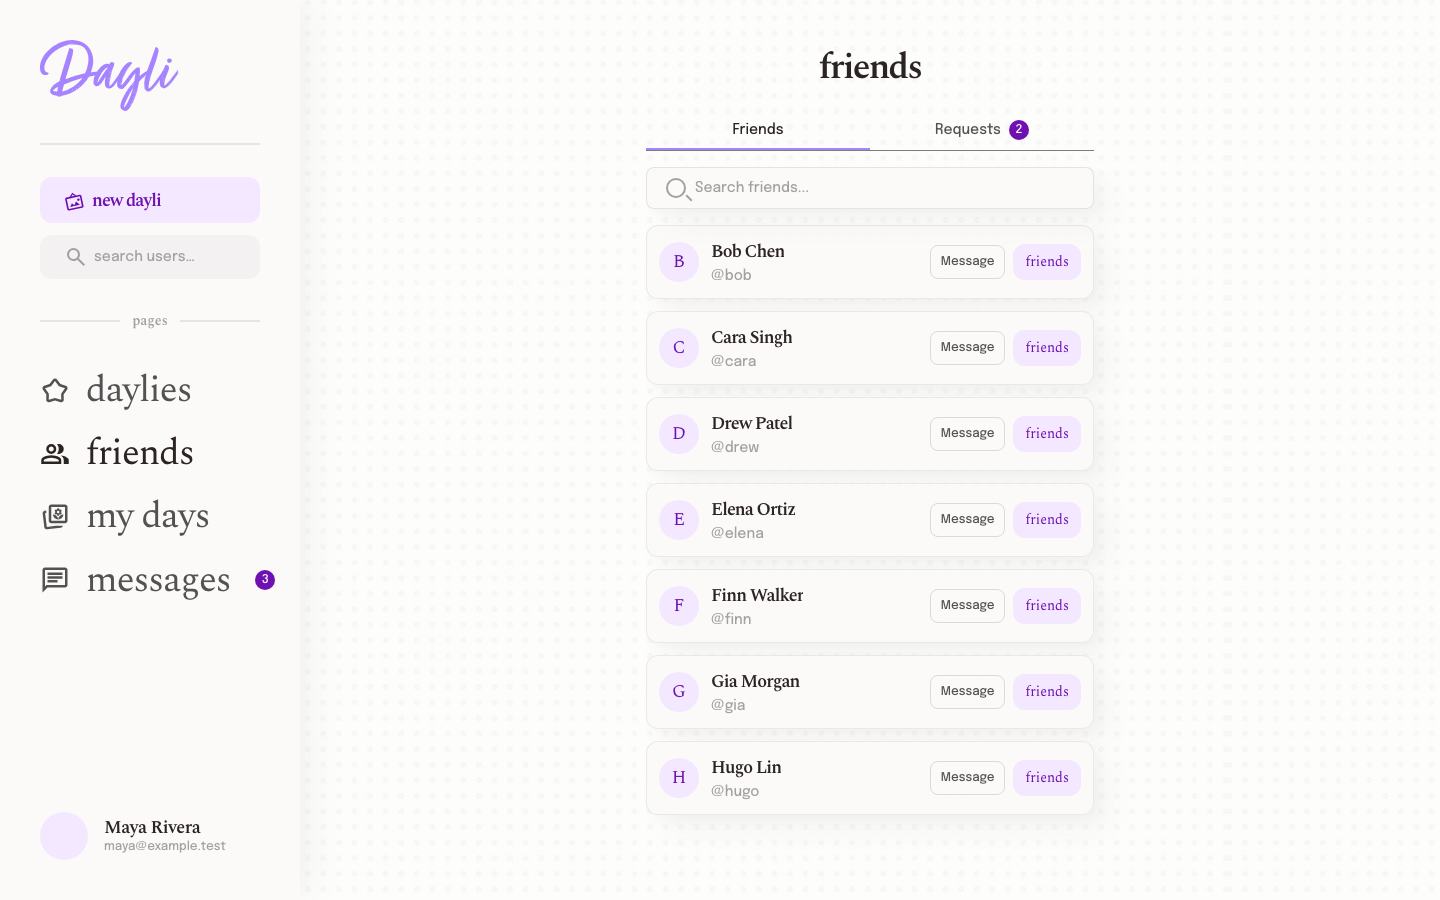
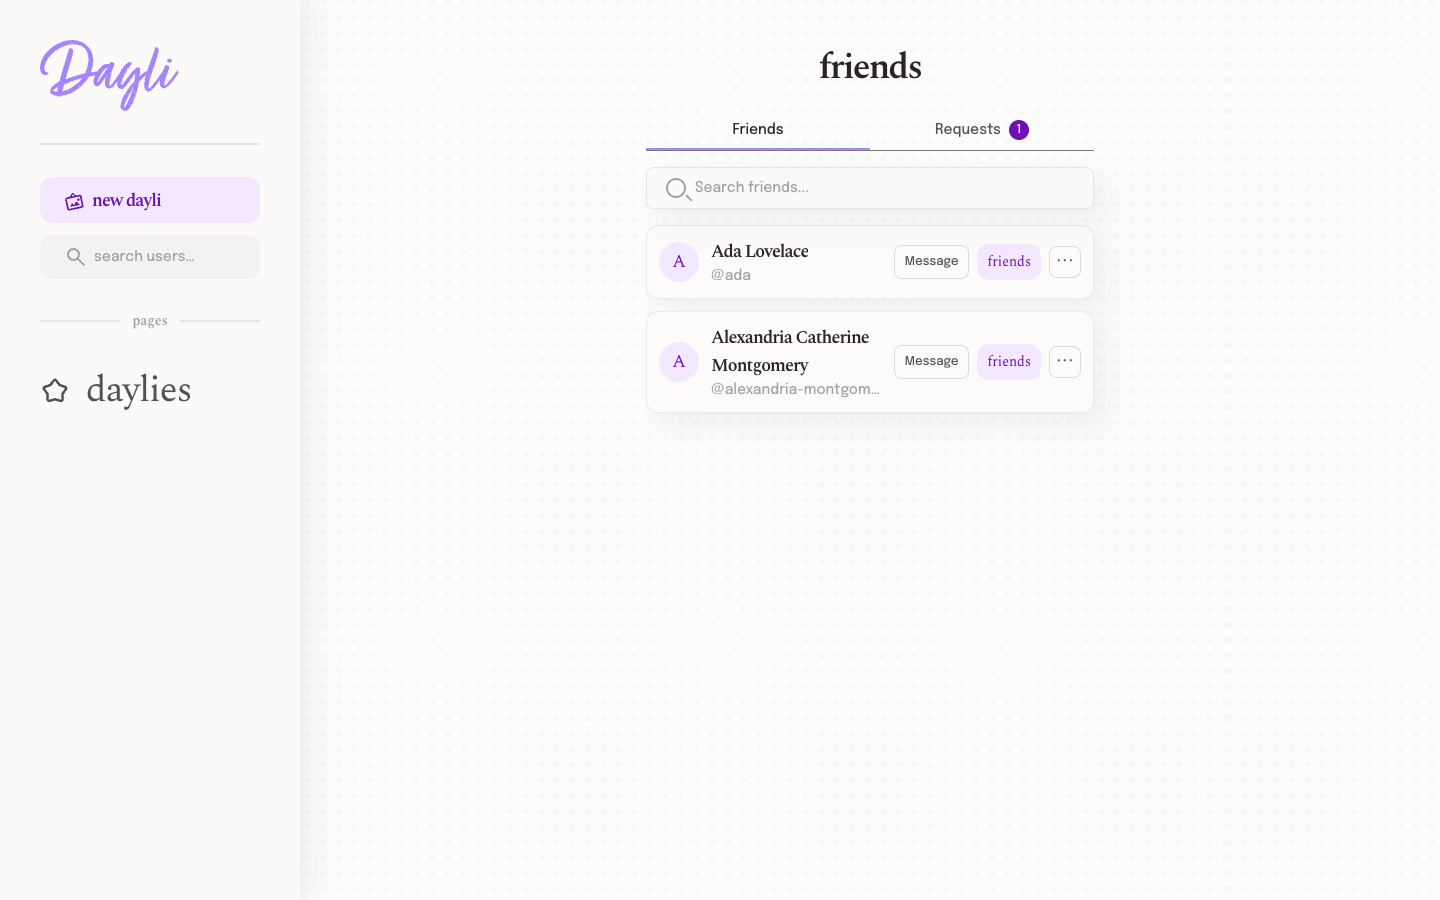
docs: update PR 149 captures for friend actions menu

diff --git a/review/README.md b/review/README.md
@@ -2,29 +2,24 @@
 
 Screenshots for the restyled Friends and Messages screens in [PR #149](https://github.com/UOA-CS734-S2-2026/project-implementation-may-gan/pull/149). This is a review-only branch. The PNGs do not belong in the application PR.
 
-The web images came from a production-mode Chromium build at 1440x900 and 390x844. Auth and API responses were mocked. The capture followed the Messages width fix. Subsequent changes through social HEAD `6aac3d7` did not alter the web presentation. Browser checks found no console errors or horizontal overflow. Dates use the browser's local time zone. See the [focused web QA report](web-qa-report.md) for the capture results.
+The Friends images show feature HEAD `f8a0955` in production-mode Chromium at 1440x900 and 390x844. The Messages, Requests and new-conversation images were captured earlier; those screens did not change in the final Friends-menu commit. Auth and API responses were mocked. Browser checks found no console errors or horizontal overflow. The [Friends-menu QA result](friends-menu-qa-report.txt) covers the separate actions button and the inert status badge. The [Messages width check](web-qa-report.md) covers the earlier captures.
 
-The native images came from 390x844 Flutter widget captures after the native list-action fixes. They use fake test data and a substitute font, and show Flutter's debug banner. They are not emulator, phone, authenticated staging, or physical-device proof.
+Flutter unit and widget tests passed after the menu change. An updated native image with readable text was not available, so the earlier Flutter widget screenshots have been removed. Emulator, phone and authenticated staging checks remain outstanding.
 
 ## Web desktop
 
 | Friends | Messages |
 | --- | --- |
 | ![Friends desktop](screenshots/web/desktop-friends.png) | ![Messages desktop](screenshots/web/desktop-messages.png) |
-| ![Friend requests desktop](screenshots/web/desktop-friend-requests.png) | ![Message requests desktop](screenshots/web/desktop-message-requests.png) |
+| ![Friend actions menu desktop](screenshots/web/desktop-friends-menu-open.png) | ![Message requests desktop](screenshots/web/desktop-message-requests.png) |
+| ![Friend requests desktop](screenshots/web/desktop-friend-requests.png) | |
 
 ## Web mobile
 
 | Friends | Messages |
 | --- | --- |
 | ![Friends mobile](screenshots/web/mobile-friends.png) | ![Messages mobile](screenshots/web/mobile-messages.png) |
-| ![Friend requests mobile](screenshots/web/mobile-friend-requests.png) | ![Message requests mobile](screenshots/web/mobile-message-requests.png) |
+| ![Friend actions menu mobile](screenshots/web/mobile-friends-menu-open.png) | ![Message requests mobile](screenshots/web/mobile-message-requests.png) |
+| ![Friend requests mobile](screenshots/web/mobile-friend-requests.png) | |
 
 The [new-conversation picker](screenshots/web/desktop-new-picker.png) and [new-pair draft](screenshots/web/desktop-new-pair-draft.png) are also included.
-
-## Flutter widget captures
-
-| Friends | Messages |
-| --- | --- |
-| ![Flutter friends](screenshots/native/friends.png) | ![Flutter messages](screenshots/native/messages.png) |
-| ![Flutter friend requests](screenshots/native/friend-requests.png) | ![Flutter message requests](screenshots/native/message-requests.png) |
